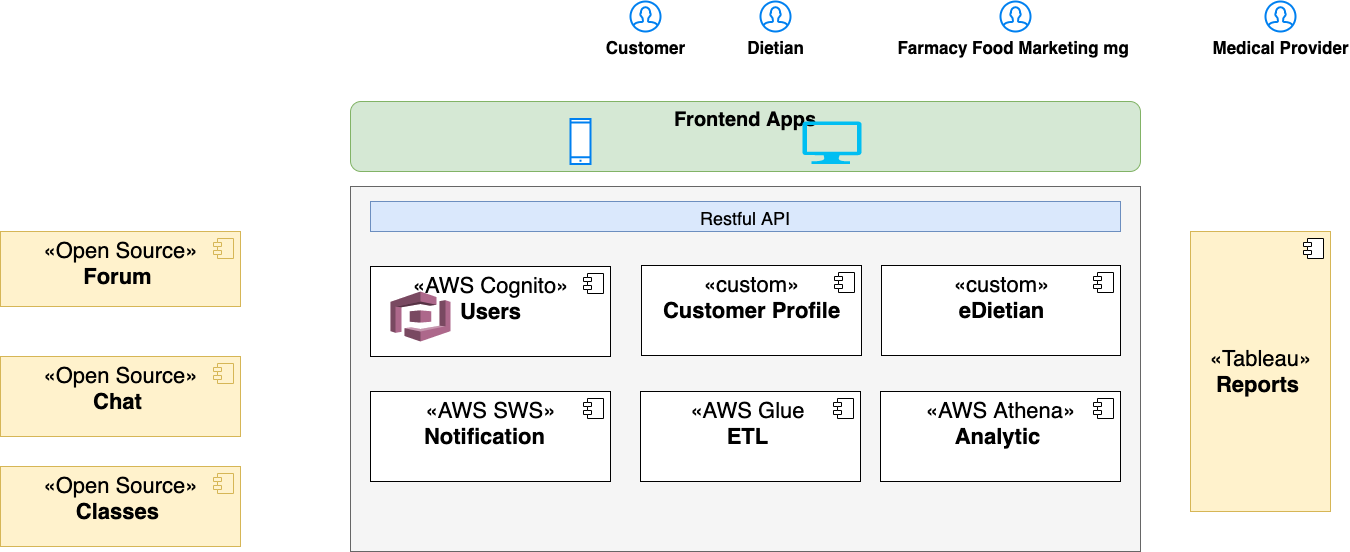
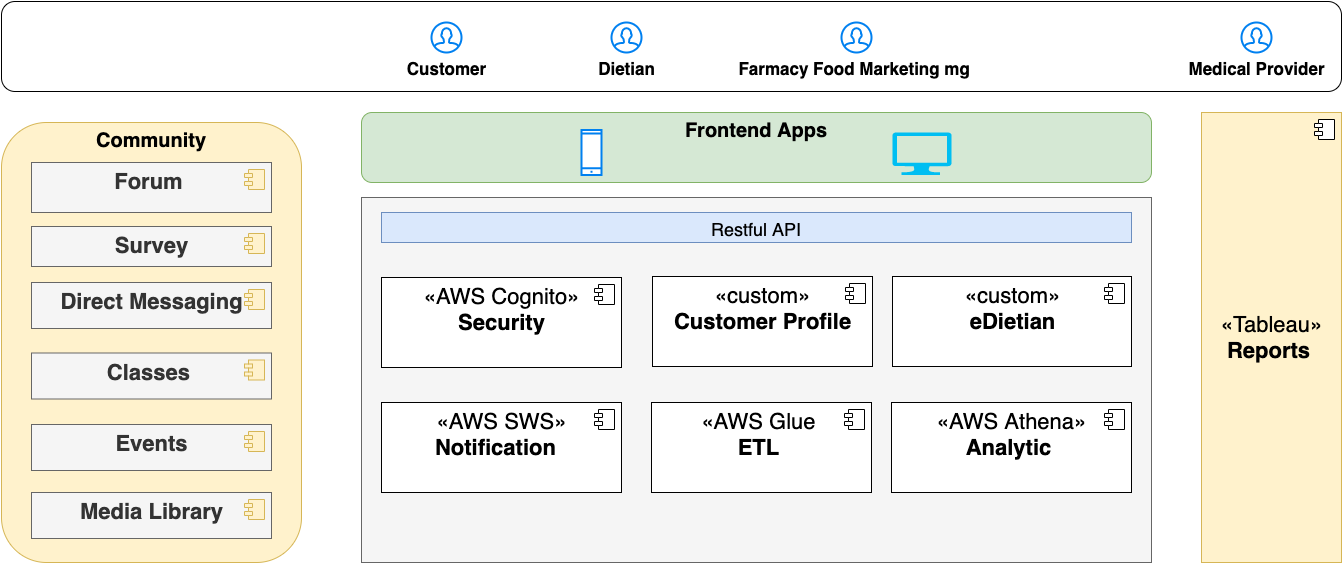
Add Onboarding

diff --git a/Solution.md b/Solution.md
@@ -23,9 +23,73 @@
 
 ...
 
-- 
+### Security
+
+- Integrate with existing AWS Cognito solution - User Pool as It is part of original solution   
+- Manage user account for Dietitian and Medical Provider
+- Provide Authentication  & Authorisation 
+
+### Cutomer Profile
+
+- Configure Profile Attributes 
+
+- Configure Medical tests
+
+- Create and View Customer Profiles
+
+- Customer can set Profile Privacy
+
+  
+
+### eDietian
+
+- Send Advice
+- Monitor Customer
+
+### Notification
+
+- Emails
+- Newsletter Subscriptions
+
+### Analytics
+
+- Geographical trend analysis
+- Medical Profile analysis
+- Customers Segmant analysis
+
+### Reports
+
+- View analysis Result by Medical Profile, Marketing
+
+### Community
+
+- forum (localized, temporal)
+
+- Survey
+
+- Direct Messaging
+
+- in person / virtual events (localized, temporal)
+
+- classes (localized, temporal) and general wellness education (global, reference)
+
+- interactive media library (global, reference)
+
+  
 
 ## Sequence Diagrams
+
+### Onboarding
+
+![](diagrams/onboarding_flow.png)
+
+....
+
+### Analytics
+
+...
+
+### Medical Test
 
 ...
 
